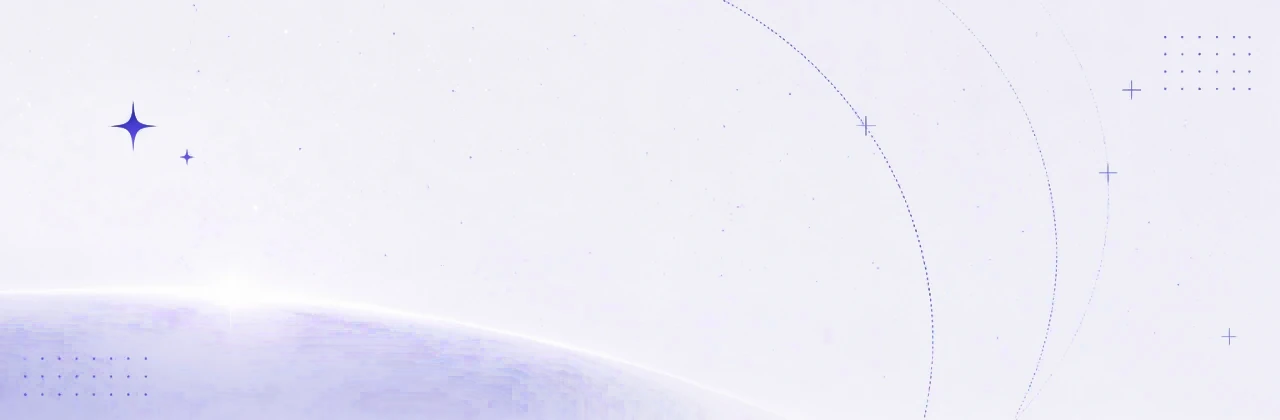
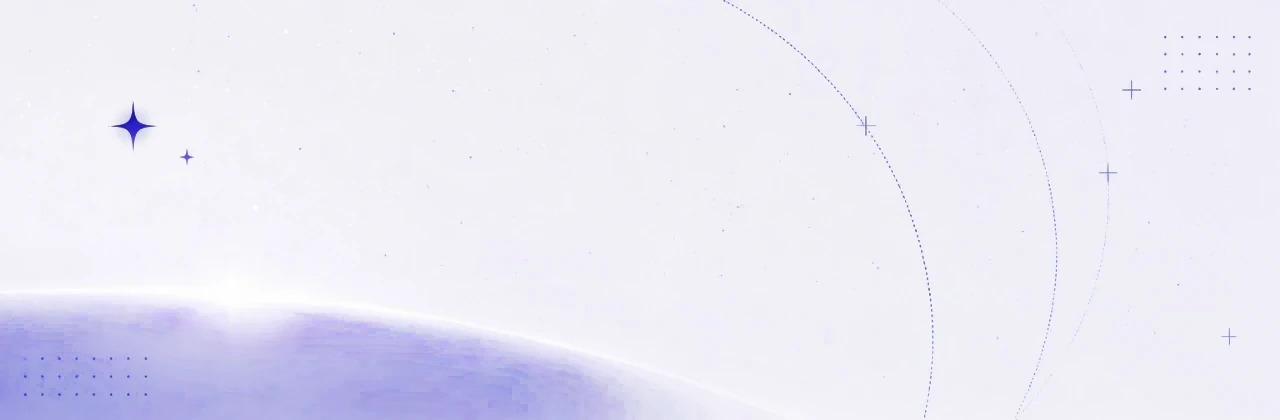
Let the light theme's violet carry on a phone, and in the heading rule
Two places the light mode dropped the identity the dark mode kept:

The hero's planet limb is all a phone's narrow crop shows of the art, and
the first accent pass deliberately left large smooth features alone - so
on the one screen the author reviews from, the light hero still read as a
pale wash. The limb's violet chroma is now deepened in the image's low
frequencies only, gated to violet hues and eased in above the ground's
near-neutral saturation, so the atmosphere reads lavender while the flare
and the paper-pale ground stay exactly as drawn.

The rule under a section heading ran #6557d9 to #8b7cff in light mode -
two mid violets close enough to read as one flat colour, while dark mode
ran to a pale #c0b7ff and visibly faded. Light now ends on the same pale
violet; the rule is a drawn mark, not text, so the pale end owes no
reading contrast, and no contrast test covers these dials.

Verified by screenshotting the rebuilt site at phone and desktop widths
in light mode, and 02-writing slide 2 in both modes. Golden snapshots
move by the embedded data-uri length only; full gate green.

Claude-Session: https://claude.ai/code/session_0142R79tnhdrGbKWqzvhDDmV

Changed region(s): [[0.0, 0.7429, 0.4688, 1.0], [0.0938, 0.2786, 0.125, 0.3405]]

diff --git a/crates/mirzam-cli/tests/snapshots/pitch.html b/crates/mirzam-cli/tests/snapshots/pitch.html
@@ -1,6 +1,6 @@
 <section class="slide" data-index="0">
 <div class="grid" style='grid-template-columns:1fr;grid-template-rows:1fr;grid-template-areas:"main"'>
-<div class="pane pane-main bleed mz-bleed-t mz-bleed-r mz-bleed-b mz-bleed-l has-bg bg-text-dark" data-pane="main" style="grid-area:main"><img class="mz-bg mz-bg-light" src="<data-uri len=20567>" alt="" style="object-fit:cover;object-position:center;"><img class="mz-bg mz-bg-dark" src="<data-uri len=33015>" alt="" style="object-fit:cover;object-position:center;"><div class="mz-bg-content"><h1 class="title-slide">Slides that live in<br>your repository</h1>
+<div class="pane pane-main bleed mz-bleed-t mz-bleed-r mz-bleed-b mz-bleed-l has-bg bg-text-dark" data-pane="main" style="grid-area:main"><img class="mz-bg mz-bg-light" src="<data-uri len=18815>" alt="" style="object-fit:cover;object-position:center;"><img class="mz-bg mz-bg-dark" src="<data-uri len=33015>" alt="" style="object-fit:cover;object-position:center;"><div class="mz-bg-content"><h1 class="title-slide">Slides that live in<br>your repository</h1>
 <p>Plain Markdown in. Presentation-grade decks out.</p>
 </div></div>
 </div>

diff --git a/crates/mirzam-cli/tests/snapshots/04-components.html b/crates/mirzam-cli/tests/snapshots/04-components.html
@@ -239,7 +239,7 @@ is rewritten into this, so a README keeps its logo</li>
 <li><code>text=dark</code> takes the theme's own ink, which flips with it</li>
 </ul>
 </div>
-<div class="pane pane-hero has-bg bg-text-dark" data-pane="hero" style="grid-area:hero;display:flex;flex-direction:column;justify-content:center"><img class="mz-bg mz-bg-light" src="<data-uri len=20567>" alt="" style="object-fit:cover;object-position:center;"><img class="mz-bg mz-bg-dark" src="<data-uri len=33015>" alt="" style="object-fit:cover;object-position:center;"><div class="mz-bg-content"><h3>Press <code>D</code></h3>
+<div class="pane pane-hero has-bg bg-text-dark" data-pane="hero" style="grid-area:hero;display:flex;flex-direction:column;justify-content:center"><img class="mz-bg mz-bg-light" src="<data-uri len=18815>" alt="" style="object-fit:cover;object-position:center;"><img class="mz-bg mz-bg-dark" src="<data-uri len=33015>" alt="" style="object-fit:cover;object-position:center;"><div class="mz-bg-content"><h3>Press <code>D</code></h3>
 <p>The art changes with the deck, not with the laptop.</p>
 </div></div>
 </div>

diff --git a/crates/mirzam-render/src/theme/themes/mirzam.css b/crates/mirzam-render/src/theme/themes/mirzam.css
@@ -67,8 +67,13 @@
      in each mode below as well. */
   --mz-code-bg: #eef0f7;
   --mz-code-fg: var(--mz-accent1);
+  /* The rule's pale end is the dark palette's second violet in both modes:
+     #8b7cff — the light palette's own accent 2 — sits so close to #6557d9
+     that the ramp read as one flat colour, and a gradient nobody can see is
+     a border that happens to be short. The rule is a drawn mark, not text,
+     so the pale end owes no reading contrast. */
   --mz-h2-rule-a: #6557d9;
-  --mz-h2-rule-b: #8b7cff;
+  --mz-h2-rule-b: #c0b7ff;
 
   /* Type. The faces are named but not fetched: a deck is one self-contained
      file, and an `@import` would put a network request between the audience

diff --git a/CHANGELOG.md b/CHANGELOG.md
@@ -52,9 +52,17 @@ markup**. See [docs/development.md](docs/development.md#versioning) for the poli
 - **The light hero's violet accents can now be seen.** The dotted arcs, the
   crosses and the dot grids in `mirzam-hero-light.webp` sat a few levels above
   the pale ground and all but vanished on the landing page, while dark mode
-  showed the whole composition. Only the faint marks were deepened — the star,
-  the flare and the ground are untouched, so nothing behind text got busier.
-  Look at the site header at `/next/` in light mode.
+  showed the whole composition. The faint marks were deepened first; then the
+  planet limb, which is all a phone's narrow crop shows of the art, got its
+  violet deepened too — the flare and the ground are untouched, so nothing
+  behind text got busier. Look at the site header at `/next/` in light mode,
+  on a phone especially.
+- **The rule under a section heading is a gradient in light mode too.** Its
+  pale end was `#8b7cff`, close enough to the `#6557d9` it starts from that
+  the ramp read as one flat colour; it now ends at `#c0b7ff`, the same pale
+  violet the dark mode's rule already ran to. Any deck on `theme: mirzam` in
+  light mode shows it — `02-writing` slide 2 under "A contents page that
+  writes itself".
 
 ## [0.6.0] - 2026-08-14
 
